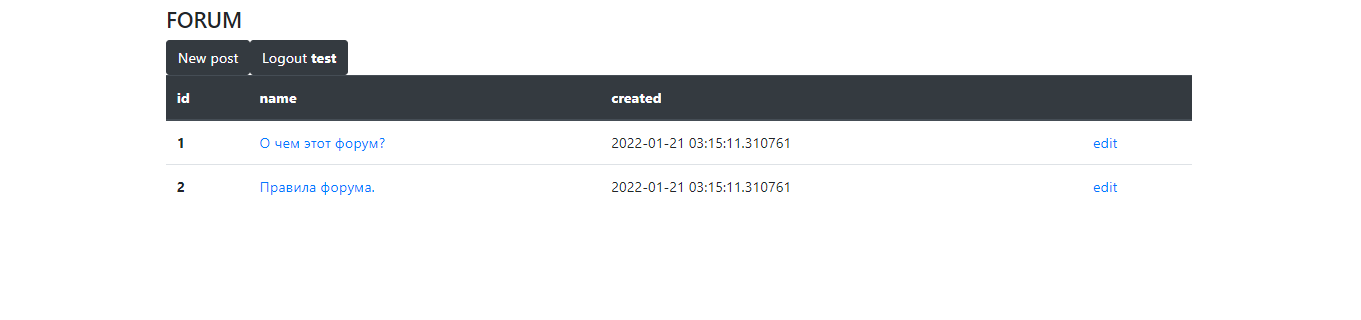
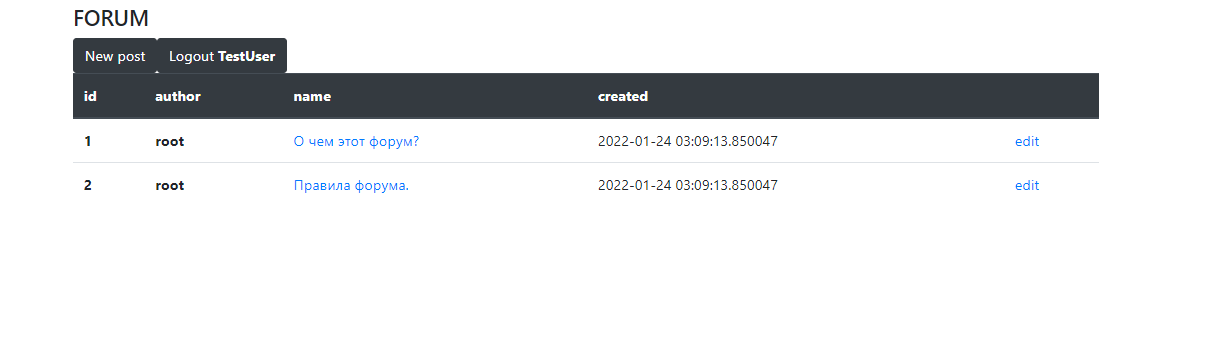
add author name in comm and posts + new readme

diff --git a/src/test/java/ru/job4j/forum/control/PostControlTest.java b/src/test/java/ru/job4j/forum/control/PostControlTest.java
@@ -5,6 +5,7 @@ import static org.springframework.test.web.servlet.result.MockMvcResultHandlers.
 import static org.springframework.test.web.servlet.result.MockMvcResultMatchers.status;
 import static org.springframework.test.web.servlet.result.MockMvcResultMatchers.view;
 
+import org.junit.Ignore;
 import org.junit.jupiter.api.Test;
 
 import org.springframework.beans.factory.annotation.Autowired;
@@ -17,7 +18,6 @@ import ru.job4j.forum.Main;
 import ru.job4j.forum.service.PostService;
 
 import org.mockito.ArgumentCaptor;
-import ru.job4j.forum.model.Post;
 import static org.hamcrest.Matchers.is;
 import static org.junit.Assert.assertThat;
 import static org.mockito.Mockito.verify;
@@ -53,7 +53,6 @@ public class PostControlTest {
                 .andExpect(view().name("redirect:/post?id=1"));
         ArgumentCaptor<String> argumentString = ArgumentCaptor.forClass(String.class);
         ArgumentCaptor<Integer> argumentInt = ArgumentCaptor.forClass(Integer.class);
-        verify(posts).addCommentToPost(argumentInt.capture(), argumentString.capture() );
-        assertThat(argumentString.getValue(), is("some comment"));
+        verify(posts).addCommentToPost(argumentInt.capture(), argumentString.capture());
     }
 }

diff --git a/src/main/java/ru/job4j/forum/control/PostControl.java b/src/main/java/ru/job4j/forum/control/PostControl.java
@@ -1,5 +1,6 @@
 package ru.job4j.forum.control;
 
+import org.springframework.security.core.context.SecurityContextHolder;
 import org.springframework.stereotype.Controller;
 import org.springframework.ui.Model;
 import org.springframework.web.bind.annotation.GetMapping;
@@ -28,6 +29,7 @@ public class PostControl {
     @PostMapping("addComment")
     public String addComment(@RequestParam(value = "id", required = false) int id,
                              @ModelAttribute("comment") String comment) {
+        comment = "[" + SecurityContextHolder.getContext().getAuthentication().getName() + "]: " + comment;
         postService.addCommentToPost(id, comment);
         return "redirect:/post?id=" + id;
     }

diff --git a/src/main/java/ru/job4j/forum/model/Post.java b/src/main/java/ru/job4j/forum/model/Post.java
@@ -15,6 +15,7 @@ public class Post {
     private int id;
     private String name;
     private String description;
+    private String authorName;
     private Timestamp created = Timestamp.valueOf(LocalDateTime.now());
     @OneToMany(fetch = FetchType.LAZY, cascade = CascadeType.ALL)
     @JoinColumn(name = "posts_id")
@@ -36,6 +37,14 @@ public class Post {
 
     public void addComm(Comment comment) {
         comments.add(comment);
+    }
+
+    public String getAuthorName() {
+        return authorName;
+    }
+
+    public void setAuthorName(String authorName) {
+        this.authorName = authorName;
     }
 
     public int getId() {

diff --git a/src/main/java/ru/job4j/forum/control/EditControl.java b/src/main/java/ru/job4j/forum/control/EditControl.java
@@ -1,5 +1,6 @@
 package ru.job4j.forum.control;
 
+import org.springframework.security.core.context.SecurityContextHolder;
 import org.springframework.stereotype.Controller;
 import org.springframework.ui.Model;
 import org.springframework.web.bind.annotation.*;
@@ -27,6 +28,7 @@ public class EditControl {
 
     @PostMapping("/edit")
     public String edit(Post post) {
+            post.setAuthorName(SecurityContextHolder.getContext().getAuthentication().getName());
             postService.addPost(post);
             return "redirect:/index?login=true";
     }

diff --git a/src/main/java/ru/job4j/forum/service/PostService.java b/src/main/java/ru/job4j/forum/service/PostService.java
@@ -28,7 +28,8 @@ public class PostService {
     }
 
     public void addPost(Post post) {
-           posts.save(post);
+        post.setName(post.getName());
+        posts.save(post);
     }
 
     @Transactional

diff --git a/README.md b/README.md
@@ -19,7 +19,7 @@
 
 ![](images/1.png)
 
-После авторизации пользователя встречает главная страница форума. Здесь он может посмотреть уже существующие темы или создать новую:
+После авторизации пользователя встречает главная страница форума. Здесь он может посмотреть уже существующие темы, их автора и время создания или создать новую:
 
 ![](images/3.png)
 
@@ -27,7 +27,7 @@
 
 ![](images/4.png)
 
-После того, как пост создан, к нему можно оставить комментарии:
+После того, как пост создан, в комментариях к нему можно пообщаться с другими пользователями:
 
 ![](images/5.png)
 
